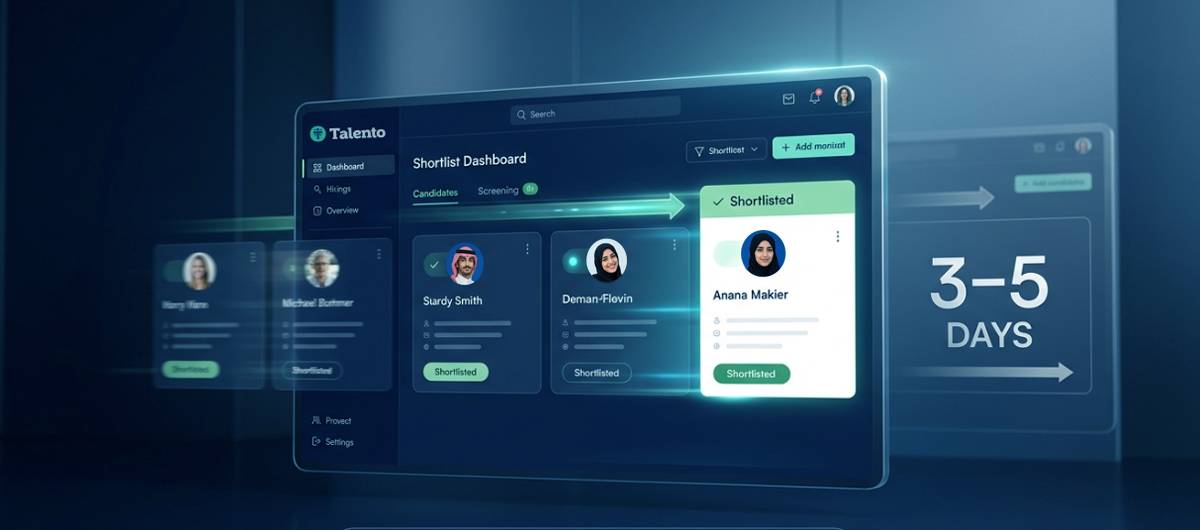
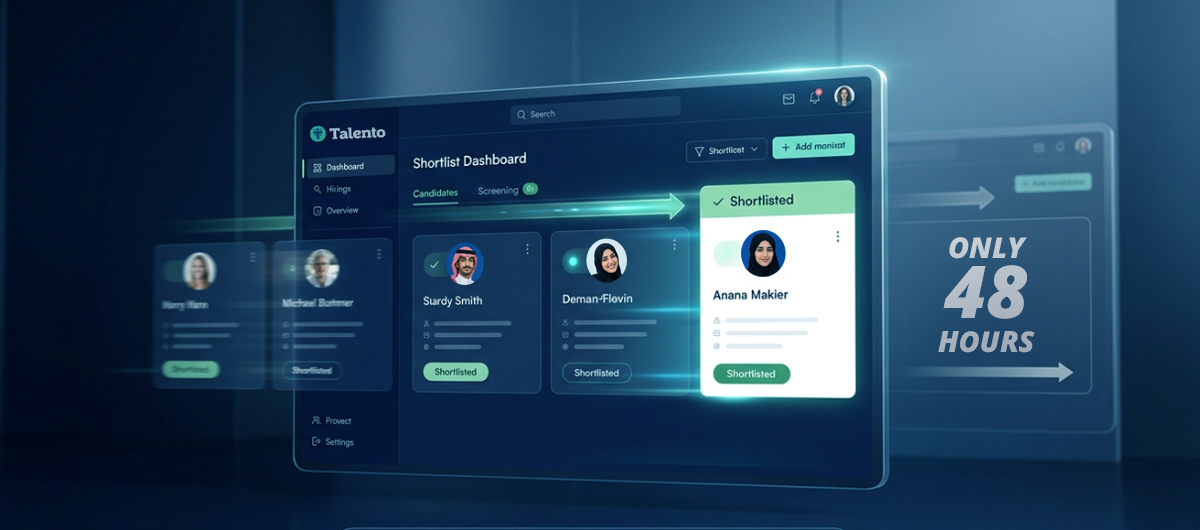
upload last version of images

Changed region(s): [[0.7708, 0.4226, 0.8942, 0.6642]]

diff --git a/src/components/sections/CTABand.tsx b/src/components/sections/CTABand.tsx
@@ -8,18 +8,15 @@ import DriftWall from "../DriftWall";
 import Image from "next/image";
 
 const items = [
-  { image: 'https://picsum.photos/id/1015/600/400', title: 'Peaks' },
-  { image: 'https://picsum.photos/id/1025/600/400', title: 'Pup' },
-  { image: 'https://picsum.photos/id/1039/600/400', title: 'Falls' },
-  { image: 'https://picsum.photos/id/1015/600/400', title: 'Peaks' },
-  { image: 'https://picsum.photos/id/1025/600/400', title: 'Pup' },
-  { image: 'https://picsum.photos/id/1039/600/400', title: 'Falls' },
-  { image: 'https://picsum.photos/id/1015/600/400', title: 'Peaks' },
-  { image: 'https://picsum.photos/id/1025/600/400', title: 'Pup' },
-  { image: 'https://picsum.photos/id/1039/600/400', title: 'Falls' },
-  { image: 'https://picsum.photos/id/1015/600/400', title: 'Peaks' },
-  { image: 'https://picsum.photos/id/1025/600/400', title: 'Pup' },
-  { image: 'https://picsum.photos/id/1039/600/400', title: 'Falls' },
+  { image: '/assets/images/screen 1.png', title: 'screen 1' },
+  { image: '/assets/images/screen 2.png', title: 'screen 2' },
+  { image: '/assets/images/screen 3.png', title: 'screen 3' },
+  { image: '/assets/images/screen 1.png', title: 'screen 4' },
+  { image: '/assets/images/screen 2.png', title: 'screen 5' },
+  { image: '/assets/images/screen 3.png', title: 'screen 6' },
+  { image: '/assets/images/screen 1.png', title: 'screen 7' },
+  { image: '/assets/images/screen 2.png', title: 'screen 8' },
+  { image: '/assets/images/screen 3.png', title: 'screen 9' },
 ];
 
 export default function CTABand() {
@@ -51,7 +48,7 @@ export default function CTABand() {
             <DriftWall
               items={items}
               columns={4}
-              tileWidth={200}
+              tileWidth={240}
               tileHeight={198}
               gap={18}
               tilt={26}
@@ -65,7 +62,7 @@ export default function CTABand() {
               lift={64}
               fade={0.6}
               dim={0.55}
-              overlayColor="#000000"
+              overlayColor="rgba(0, 0, 0, 0.45)"
               radius={14}
               roll={0}
               pauseOnHover={false}
